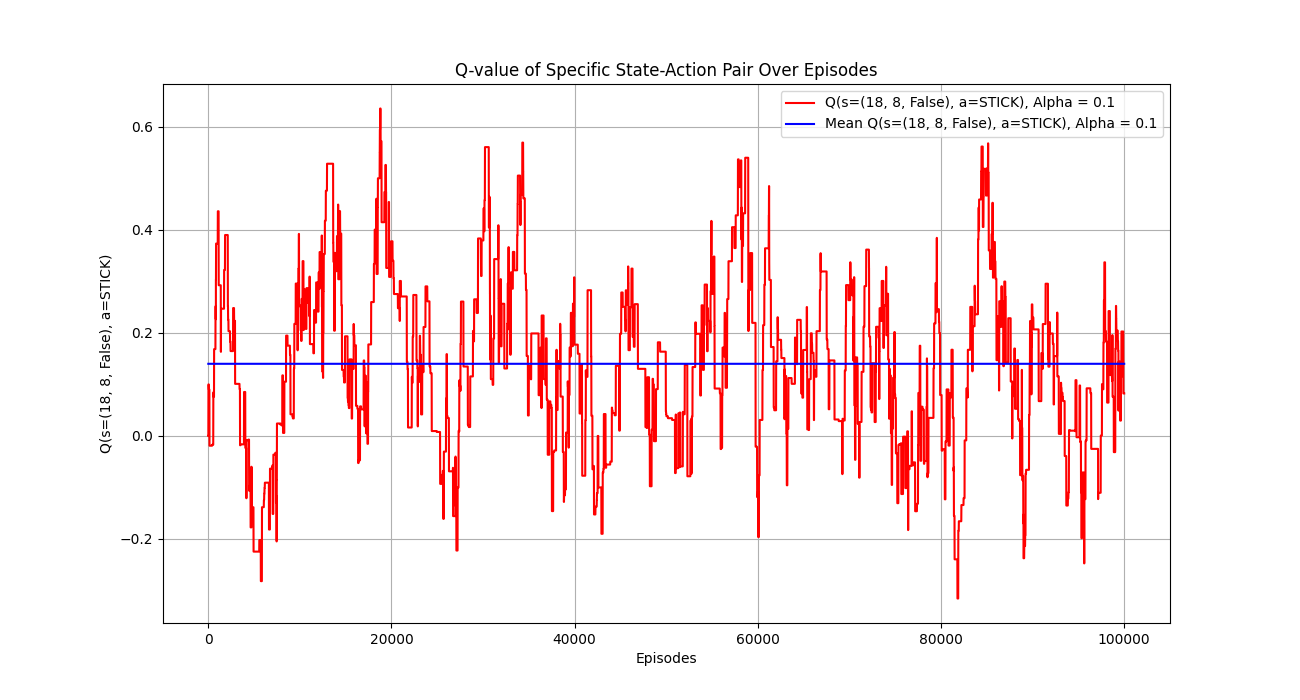
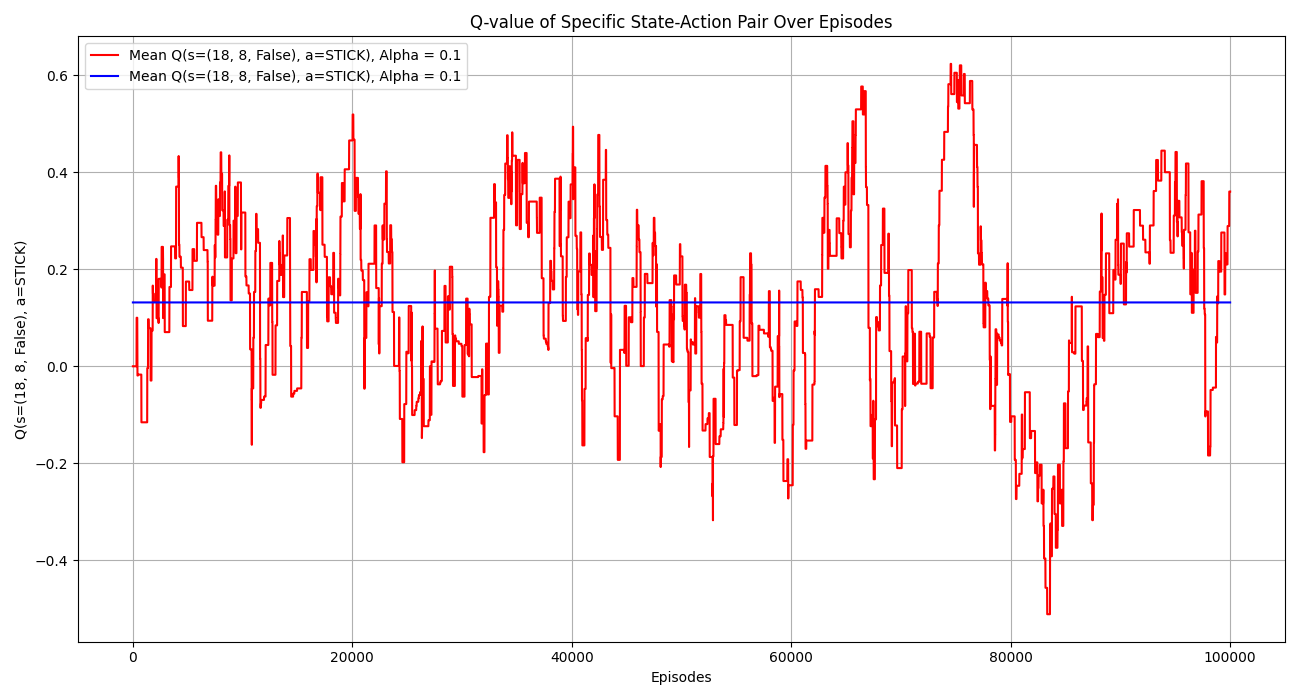
Finished Code

diff --git a/Assignments/Assignment3/Code/QBlackjack.py b/Assignments/Assignment3/Code/QBlackjack.py
@@ -9,7 +9,7 @@ ACTIONS = [ACTION_STICK, ACTION_HIT]
 EPSILON = 0.1
 L = 2000  # Number of episodes between tests
 ALPHAS = [0.01, 0.1]
-TEST_EPISODES = 10000
+TEST_EPISODES = 100000
 
 # Function Definitions (deal_card, has_usable_ace, total_hand) remain unchanged
 def deal_card():
@@ -93,33 +93,36 @@ def train_and_test(alpha, episodes=100000):
         if i % L == 0:
             win_rate = test_policy(Q)
             test_results.append(win_rate)
-            print(f"Alpha: {alpha}, Episode: {i}, Win rate: {win_rate*100:.2f}%, Q(18,8,False,STICK): {specific_Q_values[-1]}")
+            print(f"Alpha: {alpha}, Episode {i}/{episodes}, Win Rate: {win_rate*100:.2f}%, Q(s={specific_state}, a={'STICK' if specific_action == ACTION_STICK else 'HIT'}): {specific_Q_values[-1]}")
 
     # set the color for the graph
     graph_color = 'g' if alpha == 0.01 else 'r'
     
     # Plotting the Q-value for the specific state-action pair over episodes
     plt.figure(figsize=(13, 7))
-    plt.plot(range(1, episodes + 1), specific_Q_values, label=f'Q(s=(18, 8, False), a=STICK), Alpha = {alpha}', color=graph_color)
-    plt.plot(range(1, episodes + 1), [np.mean(specific_Q_values)] * episodes, label=f'Mean Q(s=(18, 8, False), a=STICK), Alpha = {alpha}', color='b', linestyle='-')
+    plt.plot(range(1, episodes + 1), specific_Q_values,  label=f'Mean Q(s='+ str(specific_state) + f', a=' + ('STICK' if specific_action == ACTION_STICK else 'HIT') + f'), Alpha = {alpha}', color=graph_color)
+    plt.plot(range(1, episodes + 1), [np.mean(specific_Q_values)] * episodes, label=f'Mean Q(s='+ str(specific_state) + f', a=' + ('STICK' if specific_action == ACTION_STICK else 'HIT') + f'), Alpha = {alpha}', color='b', linestyle='-')
     plt.title('Q-value of Specific State-Action Pair Over Episodes')
     plt.xlabel('Episodes')
     plt.ylabel(f'Q(s=' + str(specific_state) + f', a=' + ('STICK' if specific_action == ACTION_STICK else 'HIT') + ')')
     plt.legend()
     plt.grid(True)
+    plt.tight_layout()
     plt.savefig(f'Assignments/Assignment3/Report/Q_Blackjack_Alpha_{alpha}.png')
     plt.show()
     
     # Plotting win rates after test episodes as before
     plt.figure(figsize=(13, 7))
     plt.plot(range(L, episodes + 1, L), test_results, label=f'Test Win Rate, Alpha = {alpha}', color=graph_color)
-    plt.plot(range(L, episodes + 1, L), [np.mean(test_results)] * len(test_results), label=f'Mean Test Win Rate, Alpha = {alpha}', color='b', linestyle='-')
+    plt.plot(range(L, episodes + 1, L), [np.mean(test_results)] * len(test_results), label=f'Mean Test Win Rate, Alpha = {alpha}', color='orange', linestyle='-')
     plt.title('Test Win Rate Over Episodes')
     plt.xlabel('Episodes')
     plt.ylabel('Win Rate')
     plt.legend()
     plt.grid(True)
-    plt.savefig(f'Assignments/Assignment3/Report/Win_Rate_Blackjack_Alpha_{alpha}.png')
+    plt.text(0.5, 0.1, f'Average Win Rate: {np.mean(test_results)*100:.2f}%', ha='center', va='center', transform=plt.gca().transAxes)
+    plt.tight_layout()
+    plt.savefig(f'Assignments/Assignment3/Report/Win_Rate_QBlackjack_Alpha_{alpha}.png')
     plt.show()
 
 
@@ -129,7 +132,7 @@ for alpha in ALPHAS:
     start_time = time.time()
     train_and_test(alpha, episodes=100000)
     end_time = time.time()
-    print(f"Training time taken for 100,000 episodes with alpha = {alpha}: {end_time - start_time:.2f} seconds")
+    print(f"Training and testing time taken for 100,000 episodes with alpha = {alpha}: {end_time - start_time:.2f} seconds")
 
 
 

diff --git a/Assignments/Assignment3/Code/BlackjackMCES1.py b/Assignments/Assignment3/Code/BlackjackMCES1.py
@@ -6,6 +6,8 @@ import time # to measure time taken for 100,000 episodes
 ACTION_HIT = 1
 ACTION_STICK = 0
 ACTIONS = [ACTION_STICK, ACTION_HIT]
+SPECIFIC_STATE = (18, 8, False)  # Specific state to check the Q value for
+SPECIFIC_ACTION = ACTION_STICK  # Specific action to check the Q value for
 policy = {}
 for player_sum in range(12, 22):
     for dealer_card in range(1, 11):
@@ -85,7 +87,7 @@ def monte_carlo_ES(episodes):
             # Greedily update the policy for the state
             policy[state] = np.argmax([Q[(state, a)] for a in ACTIONS])
         if episode_num % 100 == 0:
-            Q_values.append(Q[((18, 8, False), ACTION_STICK)])
+            Q_values.append(Q[(SPECIFIC_STATE, SPECIFIC_ACTION)])
     return Q_values
 
 def play_game_episodes(episodes):
@@ -105,7 +107,7 @@ print("Training time taken for 10,000 episodes: ", end_time - start_time)
 
 # Plotting
 plt.figure(figsize=(14, 7))
-plt.title("Values of Q(s, a) for state (18, 8, False) and action STICK")
+plt.title(f"Values of Q(s, a) for state {SPECIFIC_STATE} and action {SPECIFIC_ACTION}")
 plt.xlabel("Episodes")
 plt.ylabel("Q(s, a)")
 plt.plot(range(100, 10001, 100), Q_values, marker='.', linestyle='-', color='r')
@@ -114,6 +116,20 @@ plt.tight_layout()
 # plt.savefig("Assignments/Assignment3/Report/Q_values.png")
 plt.show()
 
+print("Going to play 100,000 episodes to check the winning percentage")
+
 L = 100000
 wins, win_percentage = play_game_episodes(L)
-print(f"Out of {L} episodes, won {wins} times. Win percentage: {win_percentage}%")
+# plot the winning times for 100,000 episodes (binary plot)
+plt.figure(figsize=(14, 7))
+plt.title("Winning Times for 100,000 episodes")
+plt.xlabel("Episodes")
+plt.ylabel("Winning Times")
+plt.plot(range(1, L + 1), [1 if i <= wins else 0 for i in range(1, L + 1)], marker='.', linestyle='-', color='orange')  
+plt.grid(True, which="both", ls="-")
+plt.text(0.5, 0.9, f"Winning Percentage: {win_percentage:.2f}%", ha='center', va='center', transform=plt.gca().transAxes)
+plt.tight_layout()
+# plt.savefig("Assignments/Assignment3/Report/MCES1Winning_Times.png")
+plt.show()
+
+

diff --git a/Assignments/Assignment3/Code/BlackjackMCES2.py b/Assignments/Assignment3/Code/BlackjackMCES2.py
@@ -122,5 +122,15 @@ plt.show()
 
 L = 100000
 wins, win_percentage = play_game_episodes(L)
-print(f"Out of {L} episodes, won {wins} times. Win percentage: {win_percentage}%")
+# plot the winning times for 100,000 episodes (binary plot)
+plt.figure(figsize=(14, 7))
+plt.title("Winning Times for 100,000 episodes")
+plt.xlabel("Episodes")
+plt.ylabel("Winning Times")
+plt.plot(range(1, L + 1), [1 if i <= wins else 0 for i in range(1, L + 1)], marker='.', linestyle='-', color='orange')
+plt.grid(True, which="both", ls="-")
+plt.text(0.5, 0.9, f"Winning Percentage: {win_percentage:.2f}%", ha='center', va='center', transform=plt.gca().transAxes)
+plt.tight_layout()
+# plt.savefig("Assignments/Assignment3/Report/MCES2Winning_Times.png")
+plt.show()
 
